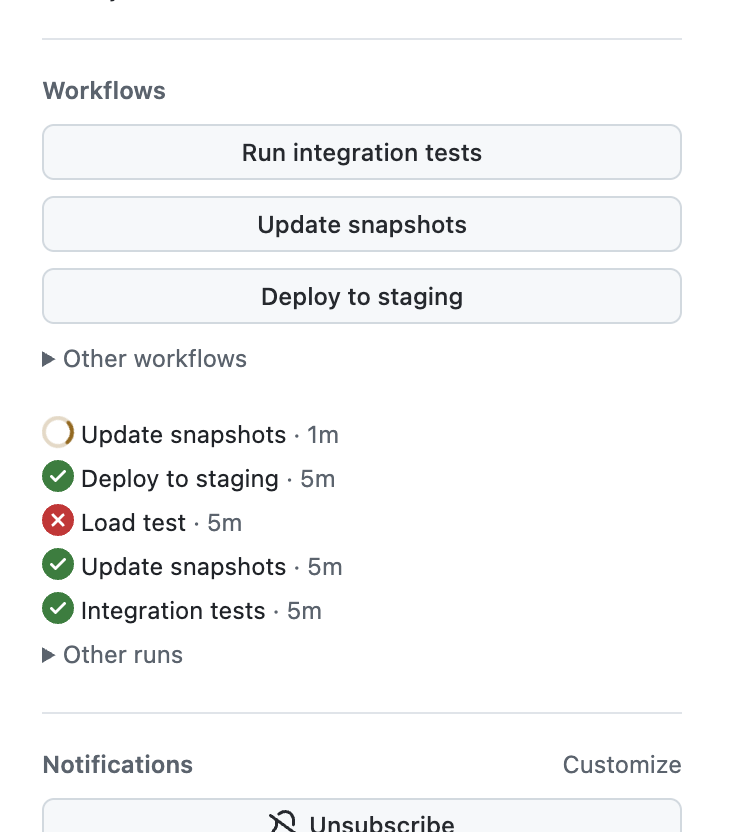
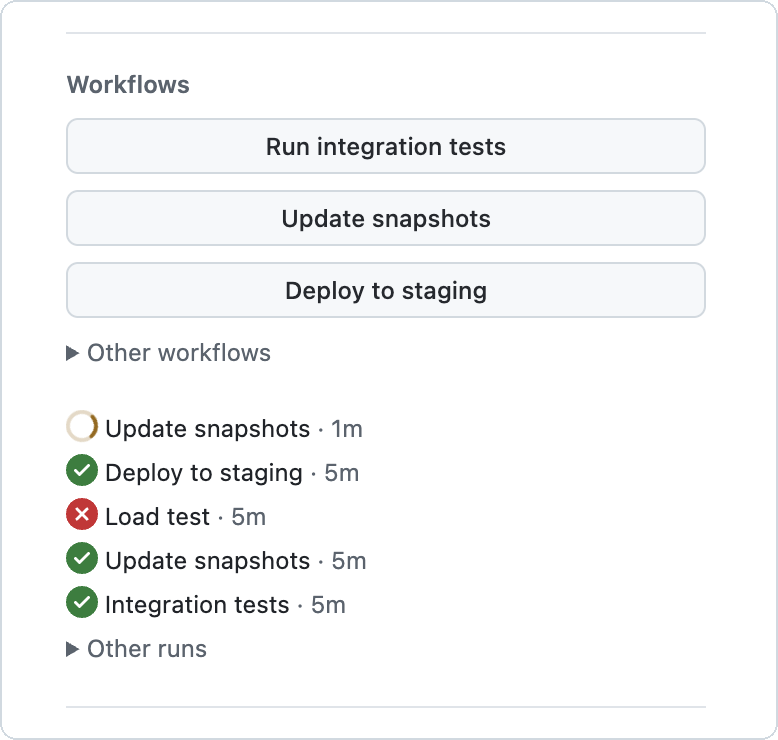
Shrink the README screenshot and give it a border

diff --git a/README.md b/README.md
@@ -1,6 +1,6 @@
 # GitHub PR Buttons
 
-<img align="right" src="docs/sidebar.png" width="365" alt="The Workflows section in a pull request sidebar: three buttons, a collapsed Other workflows section, and a list of runs with their status">
+<img align="right" src="docs/sidebar.png" width="280" alt="The Workflows section in a pull request sidebar: three buttons, a collapsed Other workflows section, and a list of runs with their status">
 
 A Chrome extension that adds a **Workflows** section to the pull request sidebar on github.com. A repo lists buttons in `.github/pr-buttons.yml`. Each button dispatches a workflow on the PR's head branch and then opens the new run.
 
